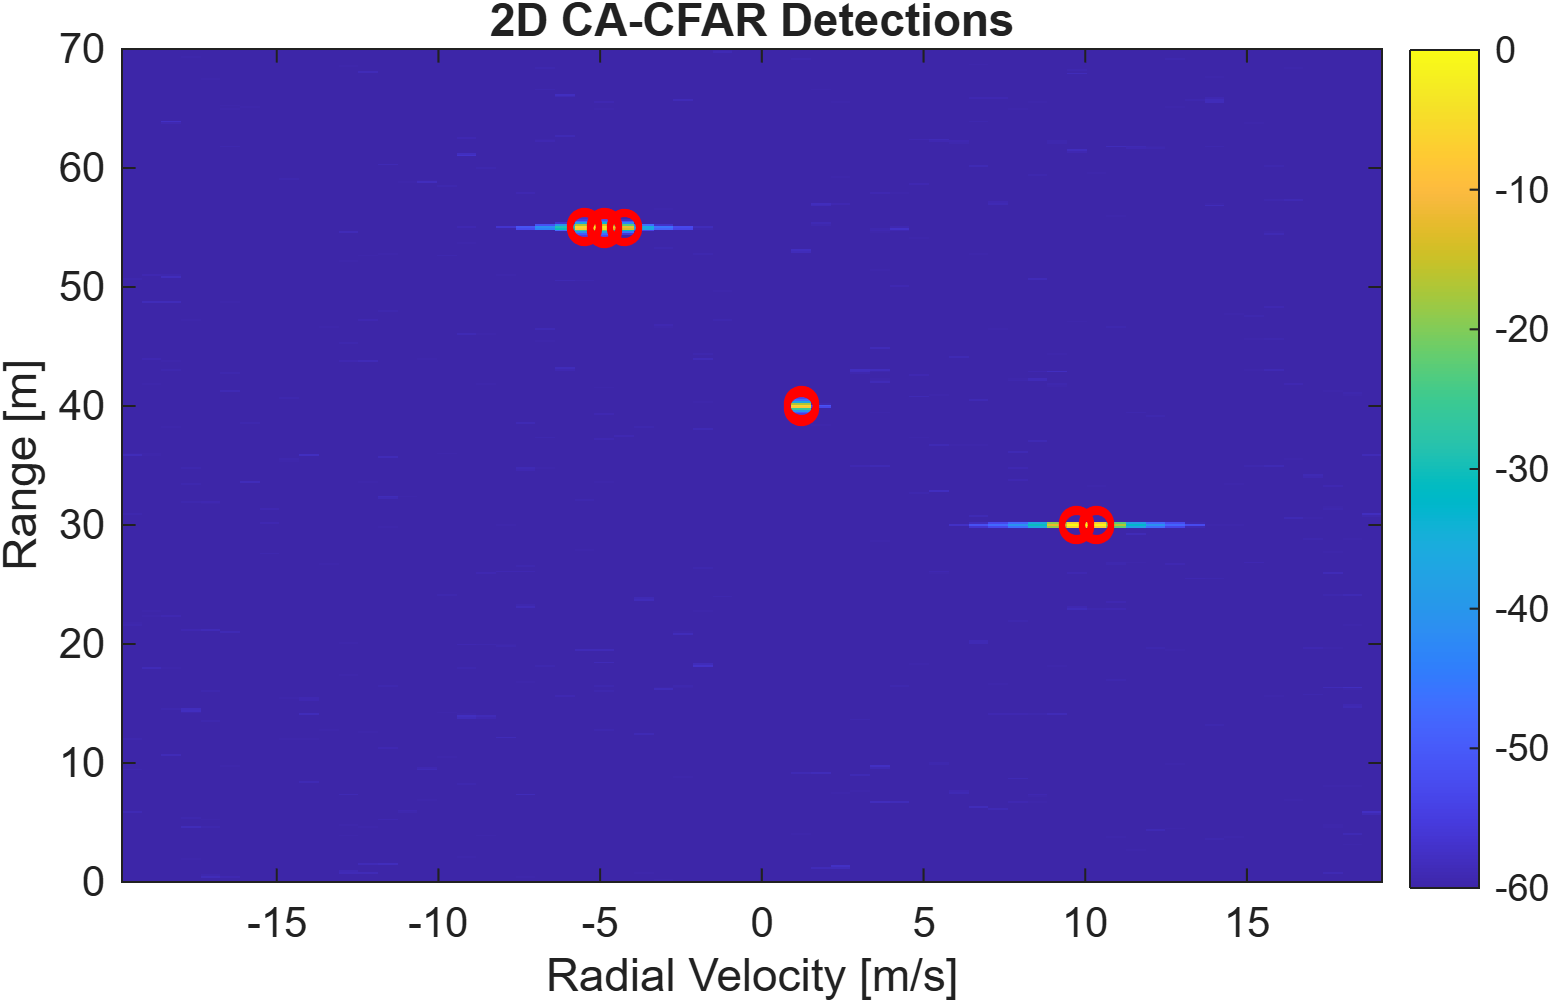
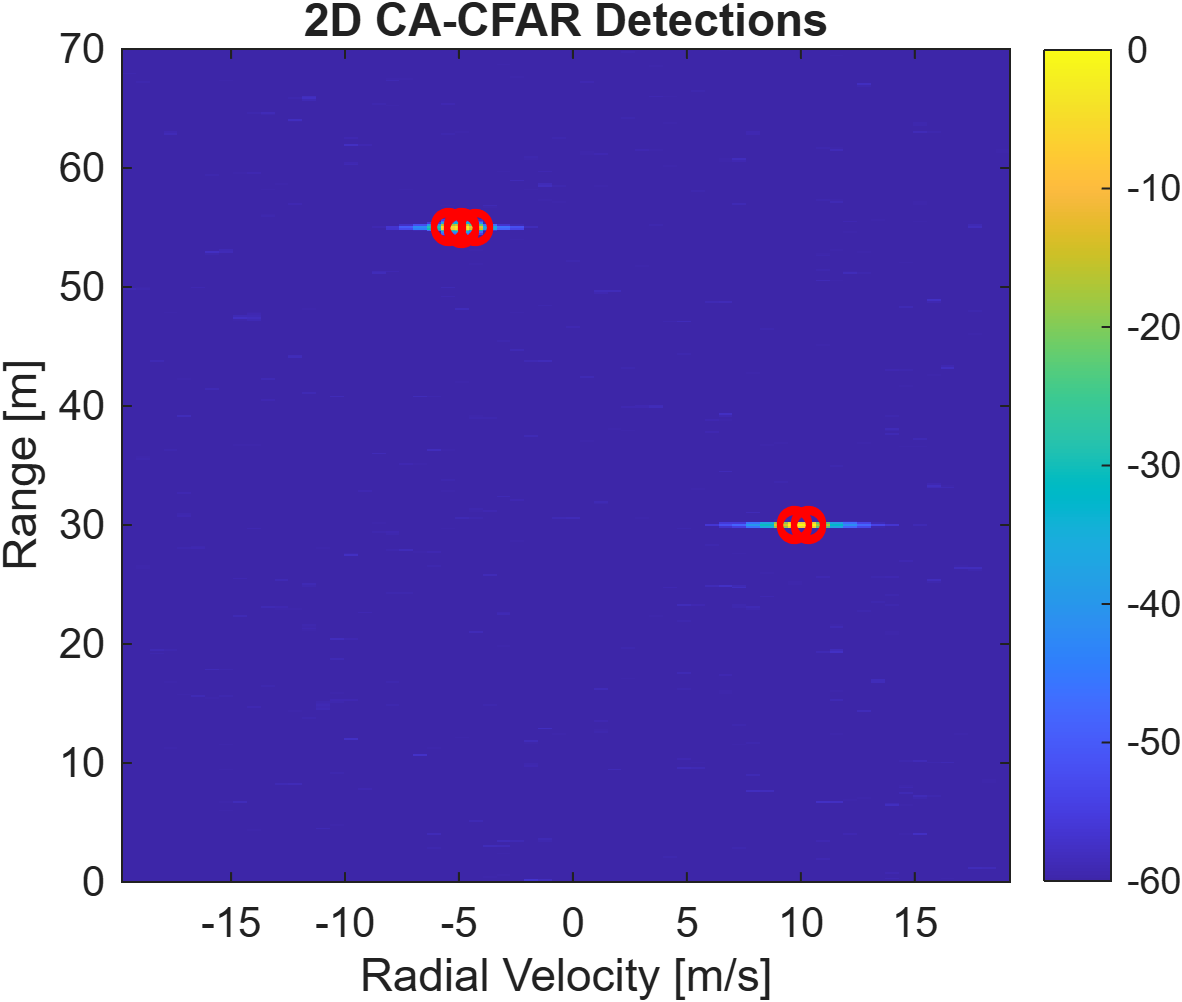
Reorganize FMCW processing pipeline structure

diff --git a/main.m b/main.m
@@ -1,7 +1,9 @@
+
 clear;
 clc;
 close all;
 
+addpath(genpath("src"));
 set(groot, "defaultFigureVisible", "on");
 
 run("config.m");
